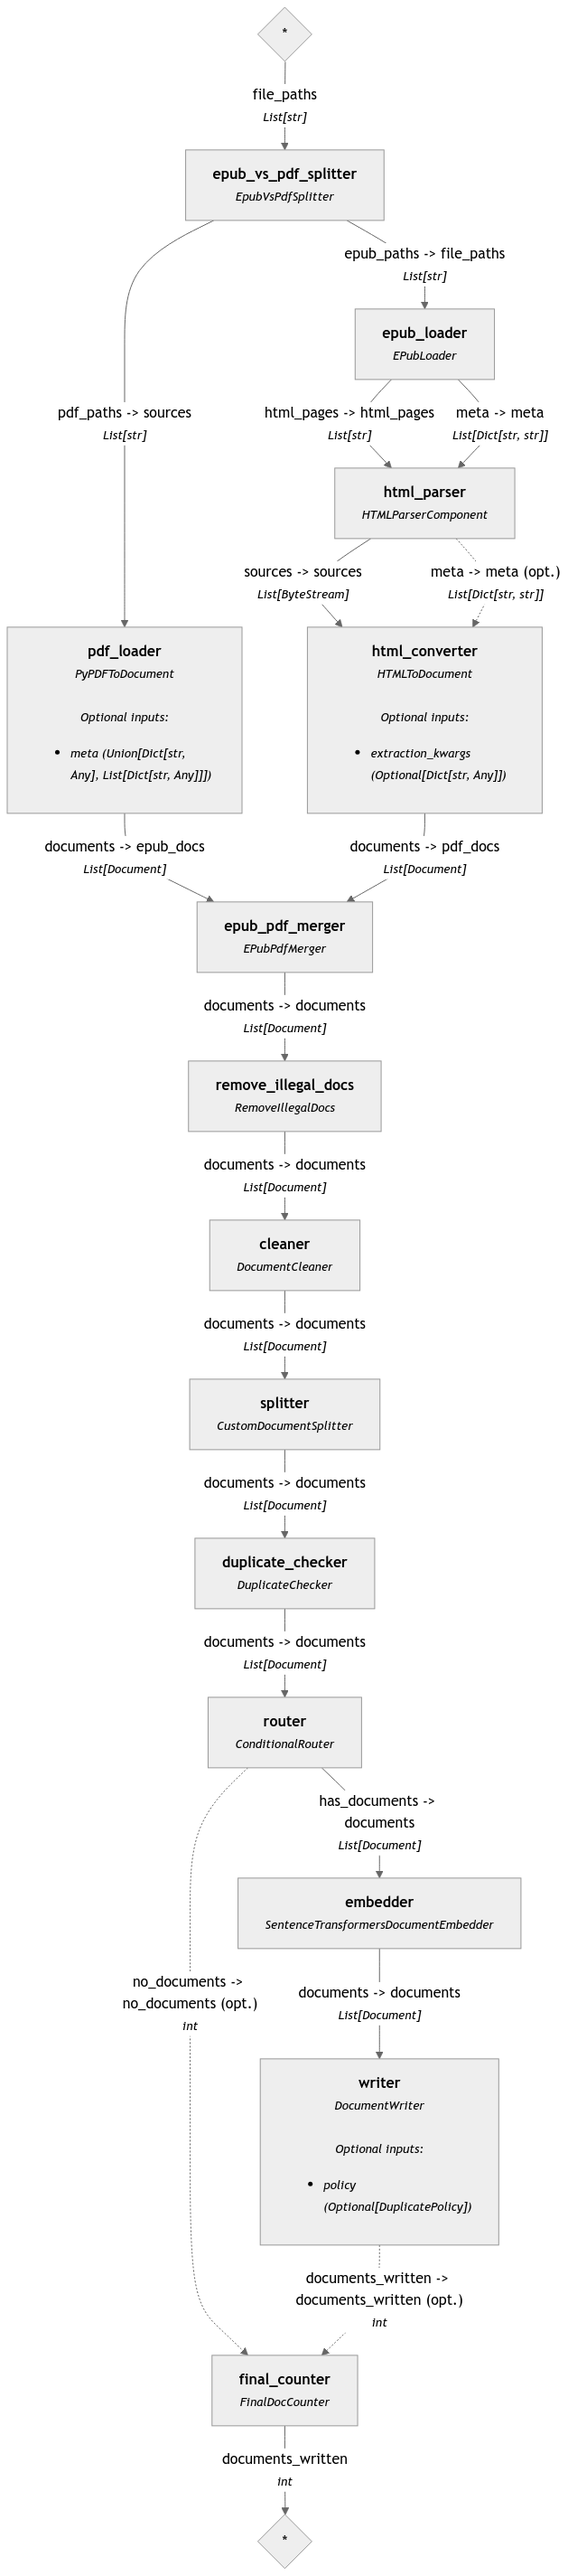
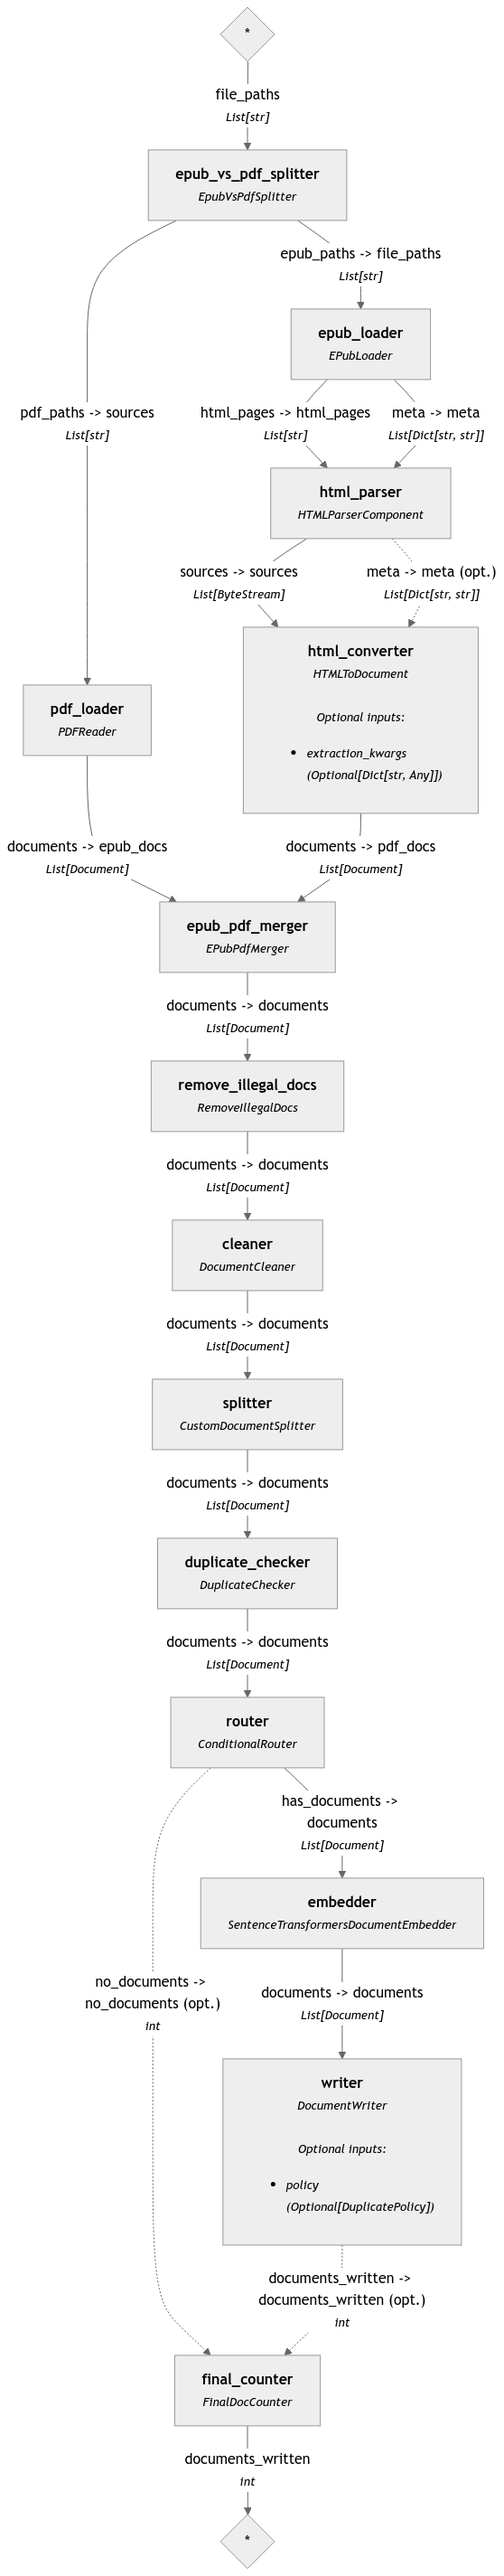
Redid PDF loader with a customer component so that I have better control.

diff --git a/custom_haystack_components.py b/custom_haystack_components.py
@@ -1,5 +1,4 @@
 import csv
-
 from ebooklib import ITEM_DOCUMENT, epub
 # noinspection PyPackageRequirements
 from haystack import Document, component
@@ -20,6 +19,7 @@ from html_parser import HTMLParser
 # noinspection PyPackageRequirements
 from haystack.dataclasses import ByteStream
 from pathlib import Path
+from pypdf import PdfReader, DocumentInformation
 
 
 def print_debug_results(results: Dict[str, Any],
@@ -57,6 +57,43 @@ def _print_hierarchy(data: Dict[str, Any], level: int) -> None:
         else:
             # If the value is neither a dict nor a list, print it directly
             print(value)
+
+
+@component
+class PDFReader:
+    def __init__(self, min_page_size: int = 1000):
+        self._min_page_size = min_page_size
+
+    @component.output_types(documents=List[Document])
+    def run(self, sources: List[str]) -> Dict[str, List[Document]]:
+        # result = PyPDFToDocument().run(sources)
+        documents: List[Document] = []
+        for source in sources:
+            pdf_reader = PdfReader(source)
+            for page_num, page in enumerate(pdf_reader.pages):
+                page_text = page.extract_text()
+                if len(page_text) < self._min_page_size:
+                    continue
+                meta_properties: List[str] = ["author", "title", "subject"]
+                meta: Dict[str, Any] = PDFReader._create_meta_data(pdf_reader.metadata, meta_properties)
+                meta["page_#"] = page_num + 1
+                if not meta.get("title"):
+                    # Use file name for title if none found in metadata
+                    source_title: str = Path(source).stem
+                    meta["title"] = source_title
+
+                documents.append(Document(content=page_text, meta=meta))
+
+        return {"documents": documents}
+
+    @staticmethod
+    def _create_meta_data(pdf_meta_data: DocumentInformation, meta_data_titles: List[str]) -> Dict[str, str]:
+        meta_data: Dict[str, str] = {}
+        for title in meta_data_titles:
+            value: str = getattr(pdf_meta_data, title, "")
+            if hasattr(pdf_meta_data, title) and value is not None and value != "":
+                meta_data[title] = getattr(pdf_meta_data, title, "")
+        return meta_data
 
 
 @component
@@ -237,15 +274,16 @@ class HTMLParserComponent:
                 self._print_verbose(f"Book: {book_title}; Chapter Title: {parser.chapter_title}. "
                                     f"Length: {parser.total_text_length()}. Skipped.")
 
-        self._print_verbose(f"Sections included:")
-        for item in included_sections:
-            self._print_verbose(item)
-        if missing_chapter_titles:
-            self._print_verbose()
-            self._print_verbose(f"Sections missing chapter titles:")
-            for item in missing_chapter_titles:
+        if len(docs_list) > 0:
+            self._print_verbose(f"Sections included:")
+            for item in included_sections:
                 self._print_verbose(item)
-        self._print_verbose()
+            if missing_chapter_titles:
+                self._print_verbose()
+                self._print_verbose(f"Sections missing chapter titles:")
+                for item in missing_chapter_titles:
+                    self._print_verbose(item)
+            self._print_verbose()
         return {"sources": docs_list, "meta": meta_list}
 
     def _print_verbose(self, *args, **kwargs) -> None:

diff --git a/document_processor.py b/document_processor.py
@@ -29,7 +29,7 @@ from generator_model import get_secret
 from doc_content_checker import skip_content
 from custom_haystack_components import (CustomDocumentSplitter, RemoveIllegalDocs, FinalDocCounter, DuplicateChecker,
                                         EPubLoader, HTMLParserComponent, print_debug_results, EpubVsPdfSplitter,
-                                        EPubPdfMerger)
+                                        EPubPdfMerger, PDFReader)
 
 
 class DocumentProcessor:
@@ -189,7 +189,7 @@ class DocumentProcessor:
         # Create the document conversion pipeline
         doc_convert_pipe: Pipeline = Pipeline()
         doc_convert_pipe.add_component("epub_vs_pdf_splitter", EpubVsPdfSplitter())
-        doc_convert_pipe.add_component("pdf_loader", PyPDFToDocument())
+        doc_convert_pipe.add_component("pdf_loader", PDFReader())
         doc_convert_pipe.add_component("epub_loader", EPubLoader(verbose=self._verbose))
         doc_convert_pipe.add_component("html_parser",
                                        HTMLParserComponent(min_paragraph_size=self._min_paragraph_size,
